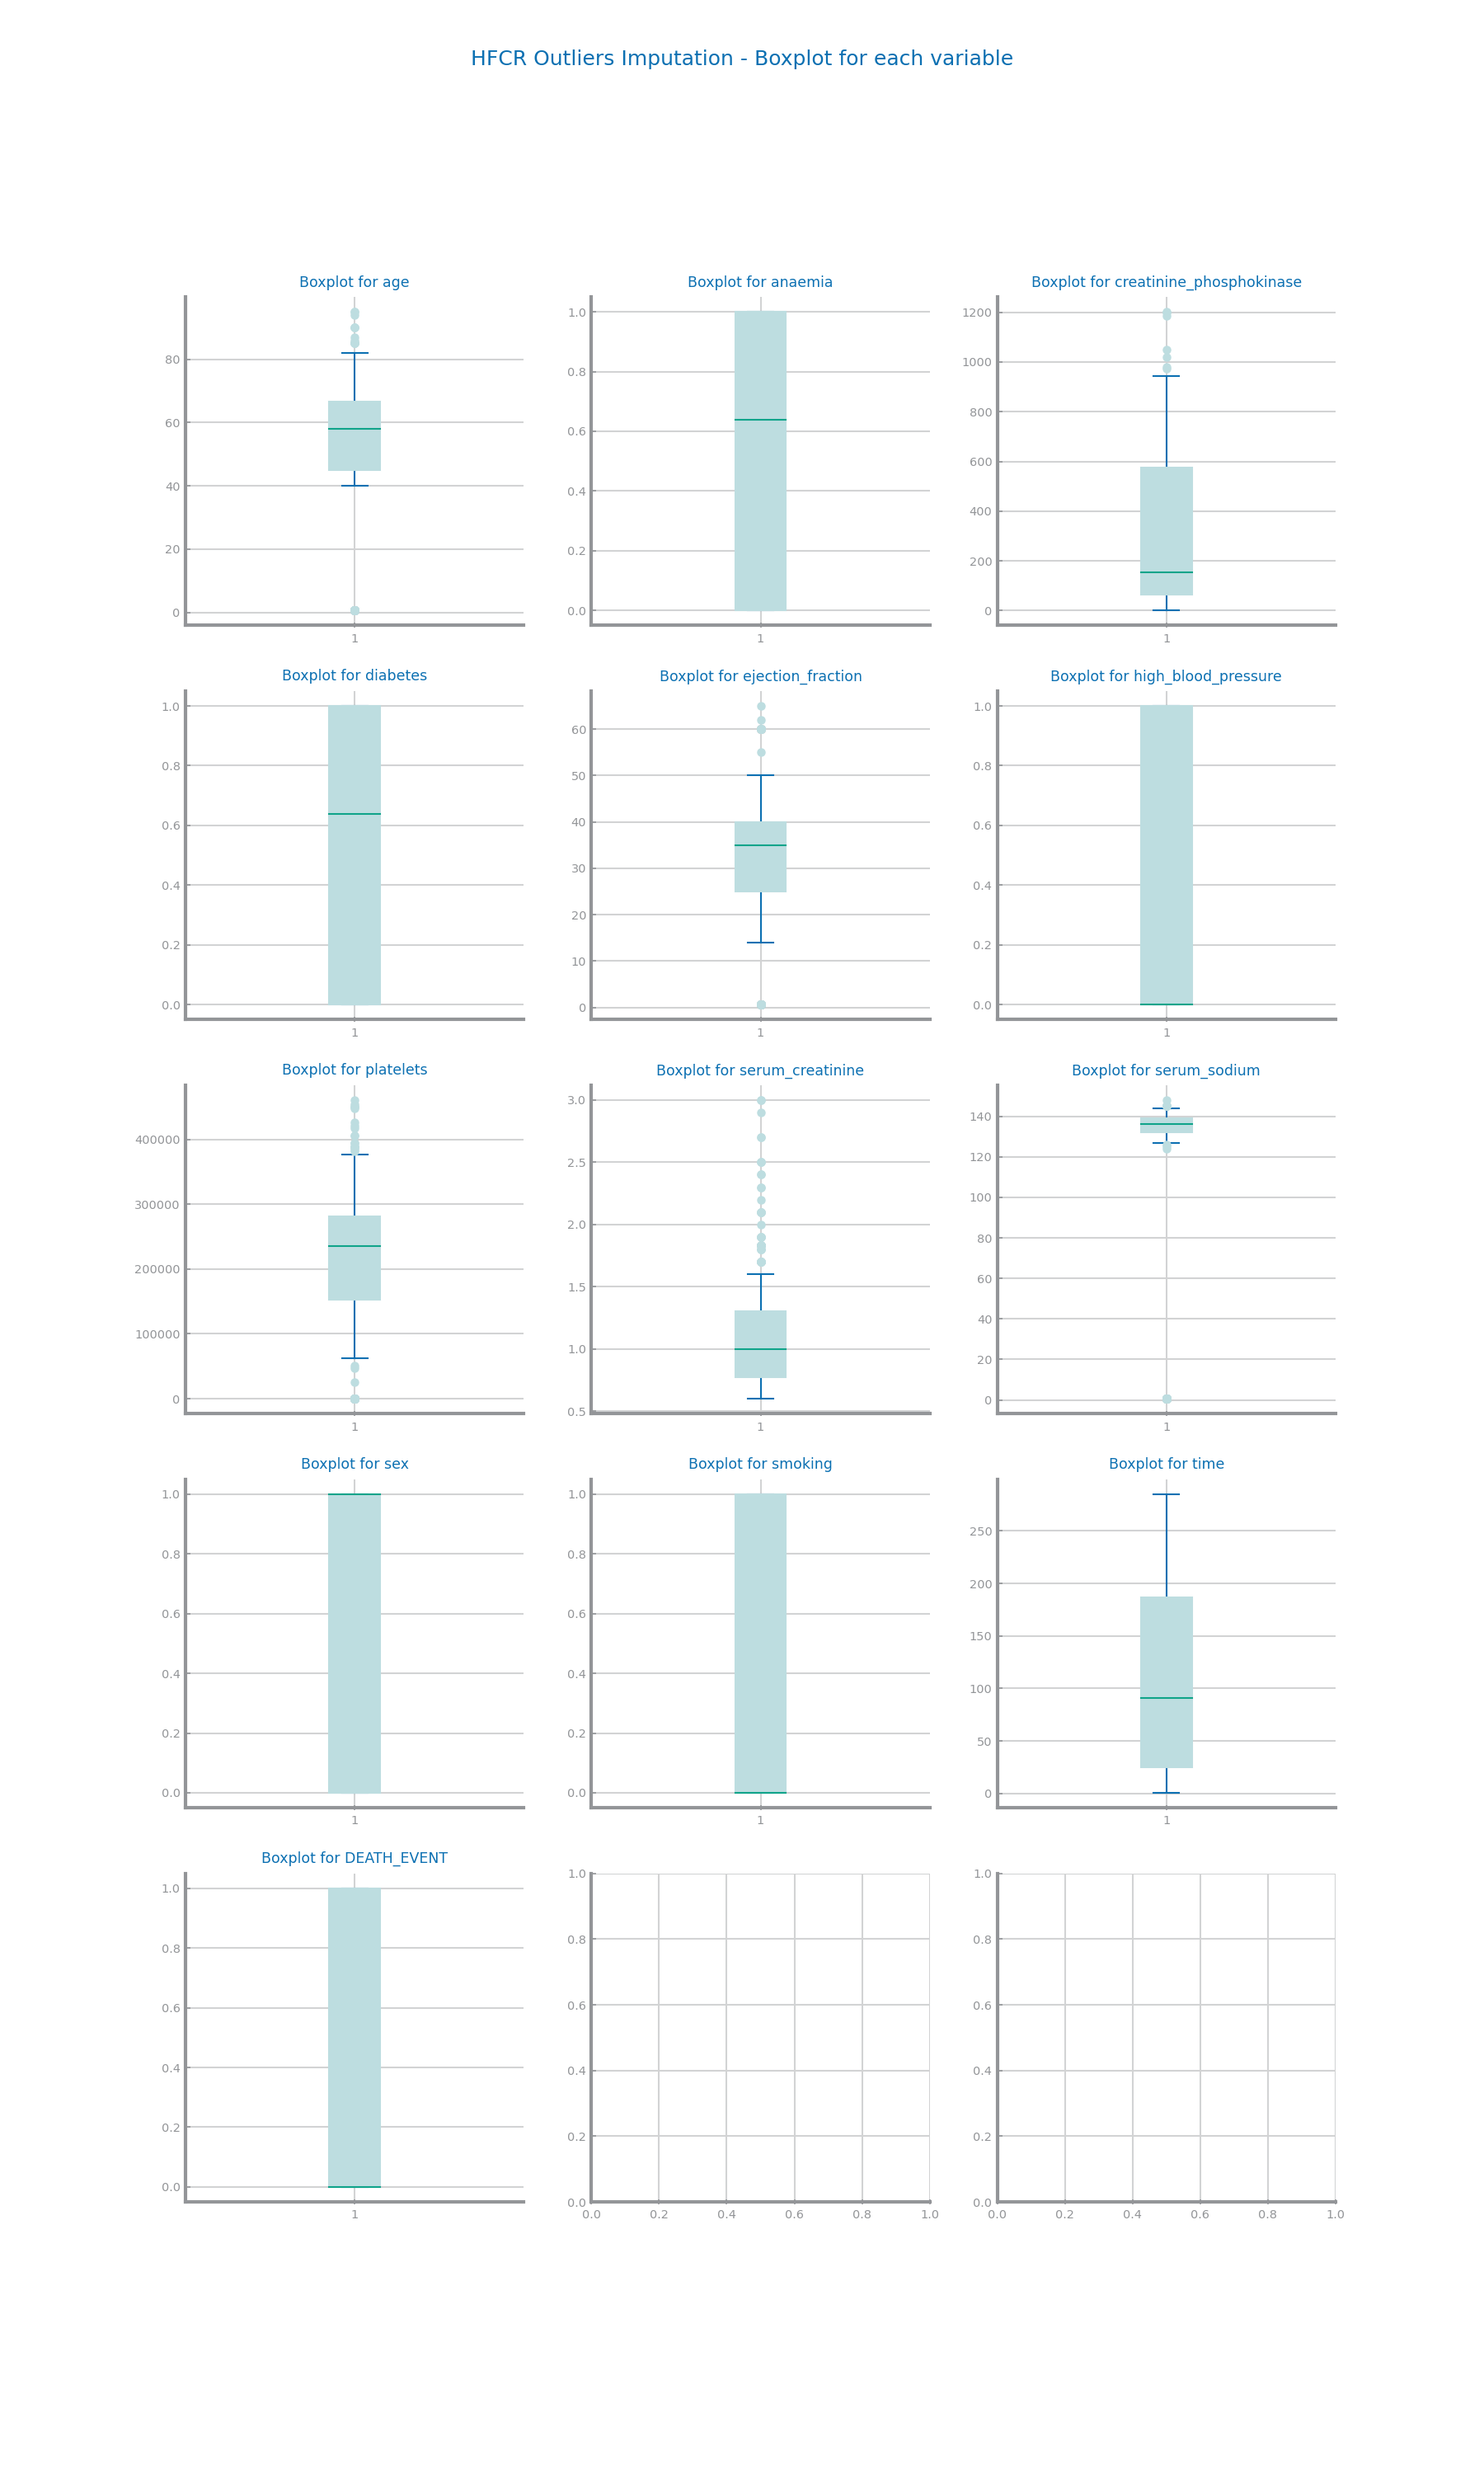
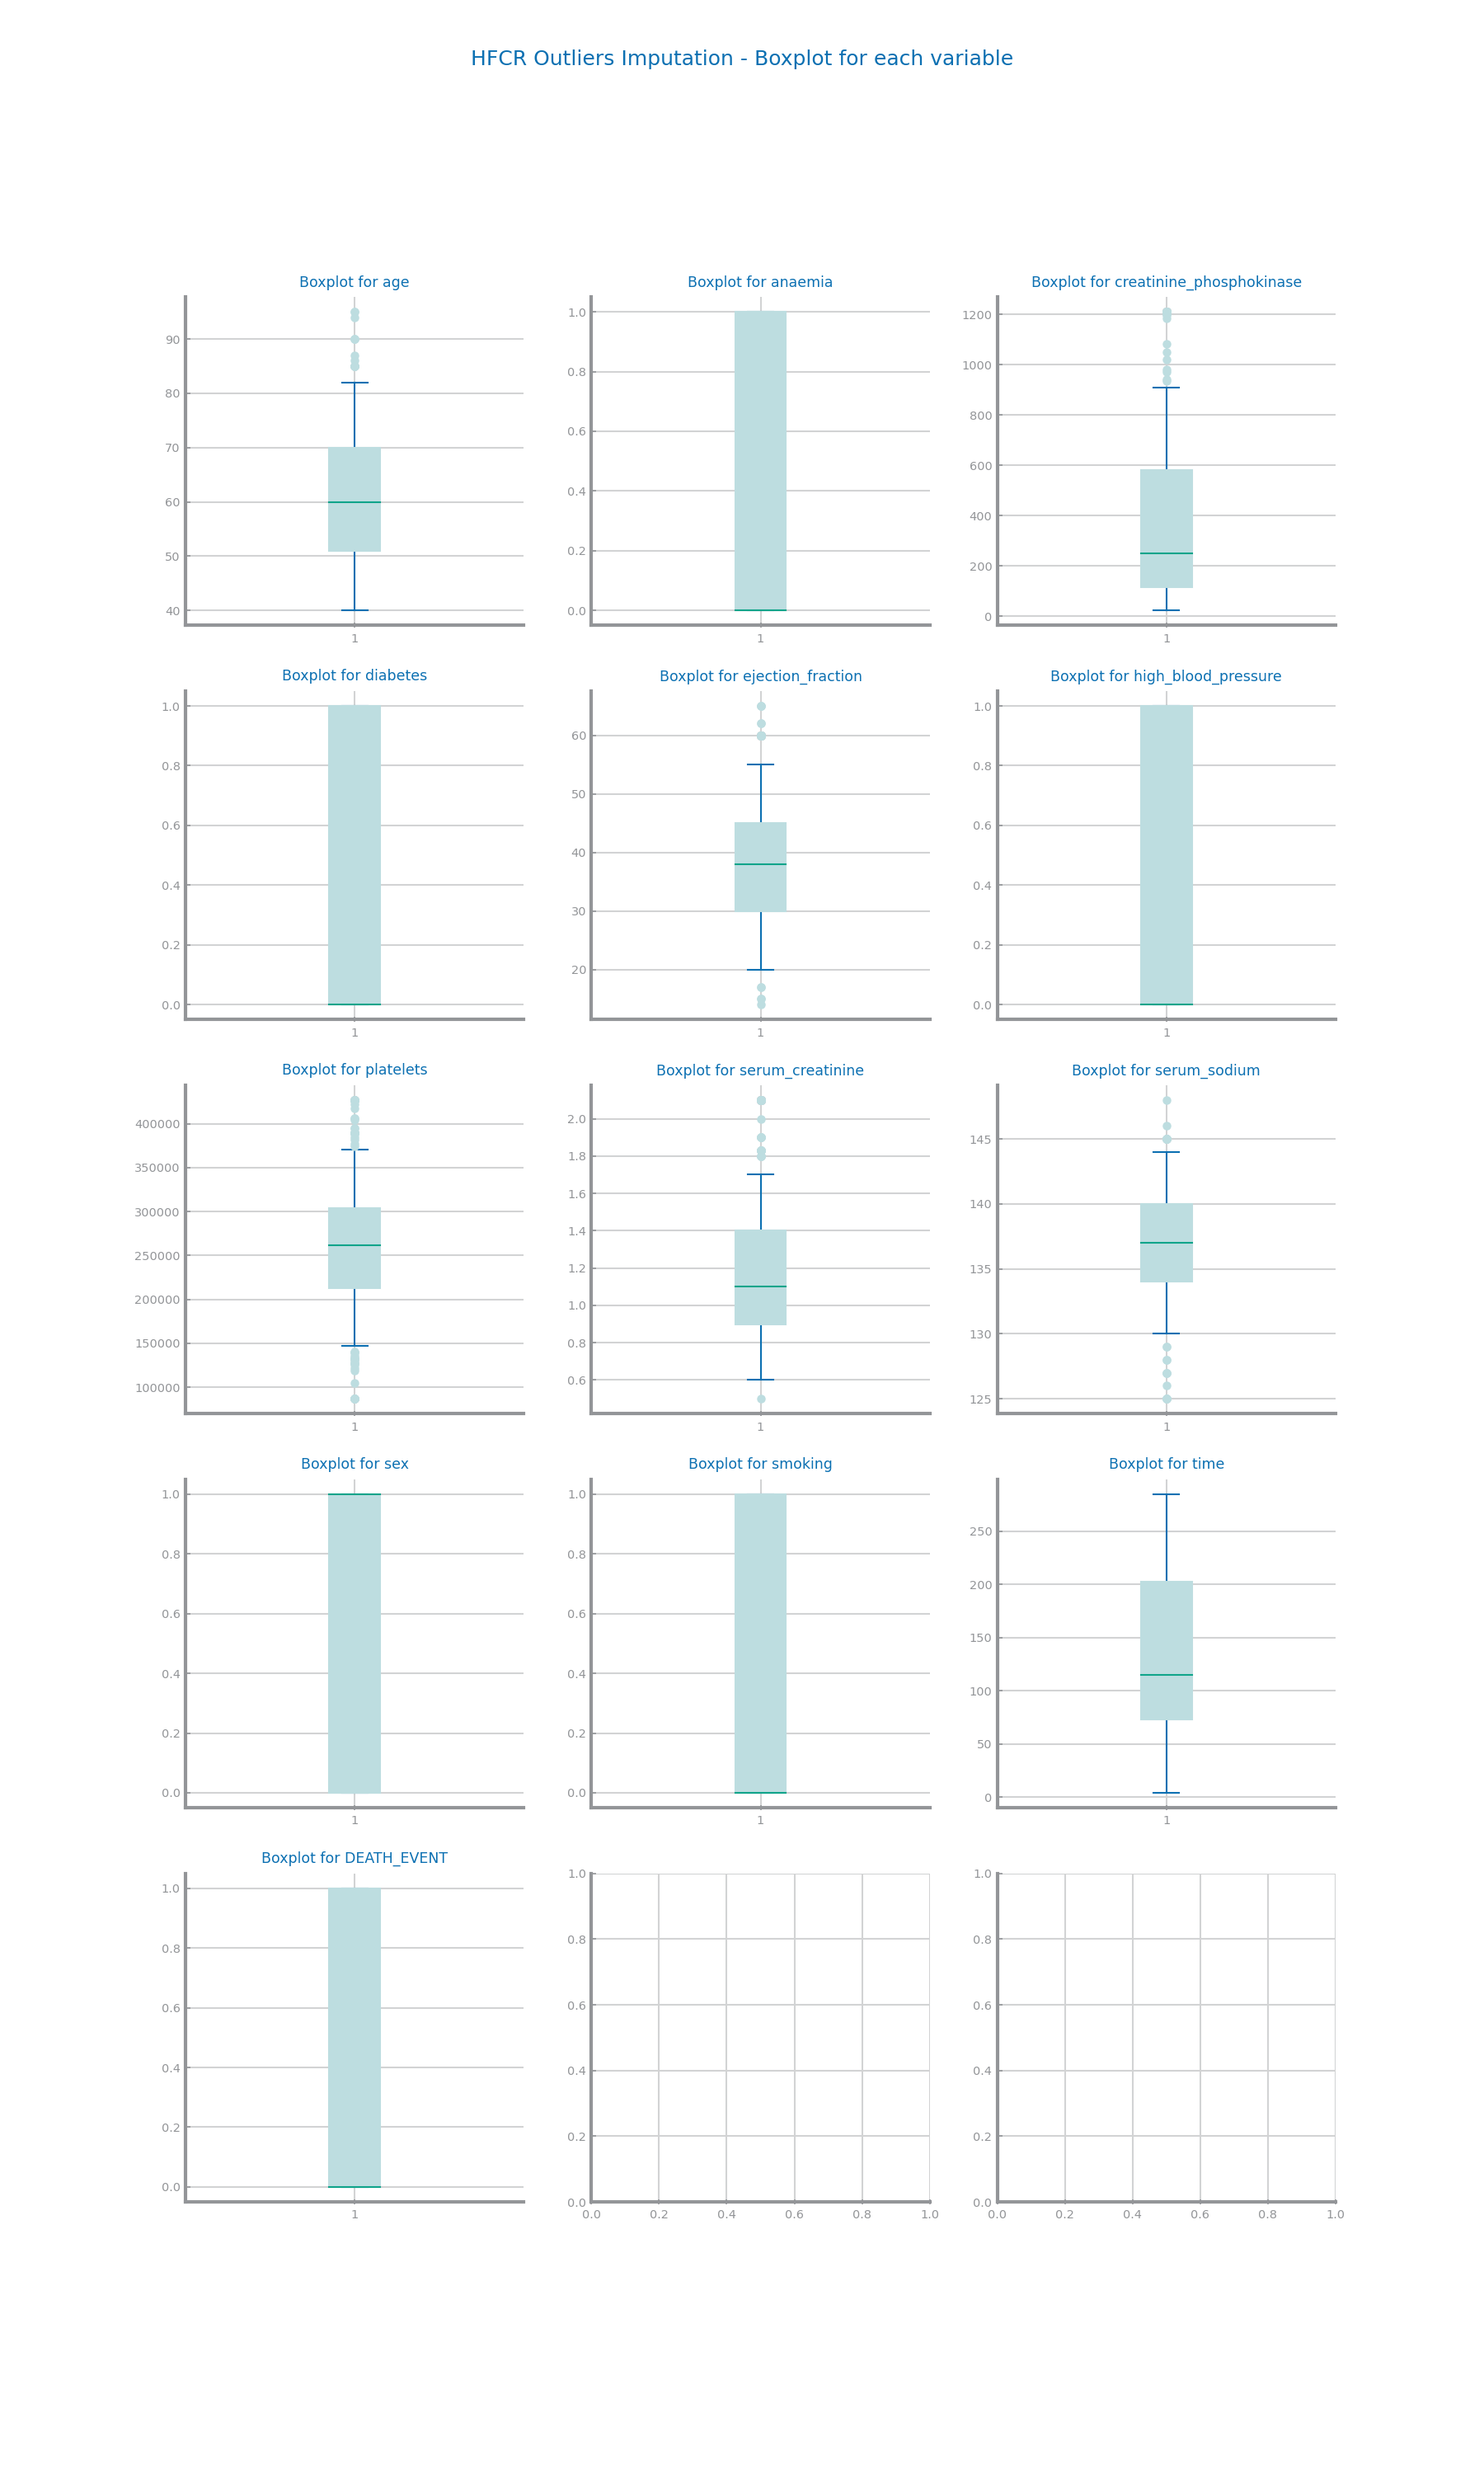
...

diff --git a/Labs/Lab04/HFCR_outliers_imputation.py b/Labs/Lab04/HFCR_outliers_imputation.py
@@ -27,7 +27,13 @@ print()
 print('Outilers Imputation...')
 print()
 print('New description table')
+
+# Mean
+
+# Winsorization
 for var in data:
+	if var == 'DEATH_EVENT':
+		break
 	q1 = data[var].quantile(0.25)
 	q3 = data[var].quantile(0.75)
 	iqr = q3 - q1
@@ -35,10 +41,14 @@ for var in data:
 	higher_limit = q3+1.5*iqr
 
 	acceptable_values = data.loc[(data[var] >= lower_limit) & (data[var] <= higher_limit)]
-	
-	var_mean = acceptable_values[var].mean()
 
-	data.loc[(data[var] < lower_limit) | (data[var] > higher_limit)] = var_mean
+	var_mean = acceptable_values[var].mean()
+	max_value = acceptable_values[var].max()
+	min_value = acceptable_values[var].min()
+
+
+	data.loc[(data[var] < min_value), var] = min_value
+	data.loc[(data[var] > max_value), var] = max_value
 
 print(data.describe(include='all'))
 data.describe().to_csv(graphsDir + 'HFCR Outliers Imputation - Description.csv')
